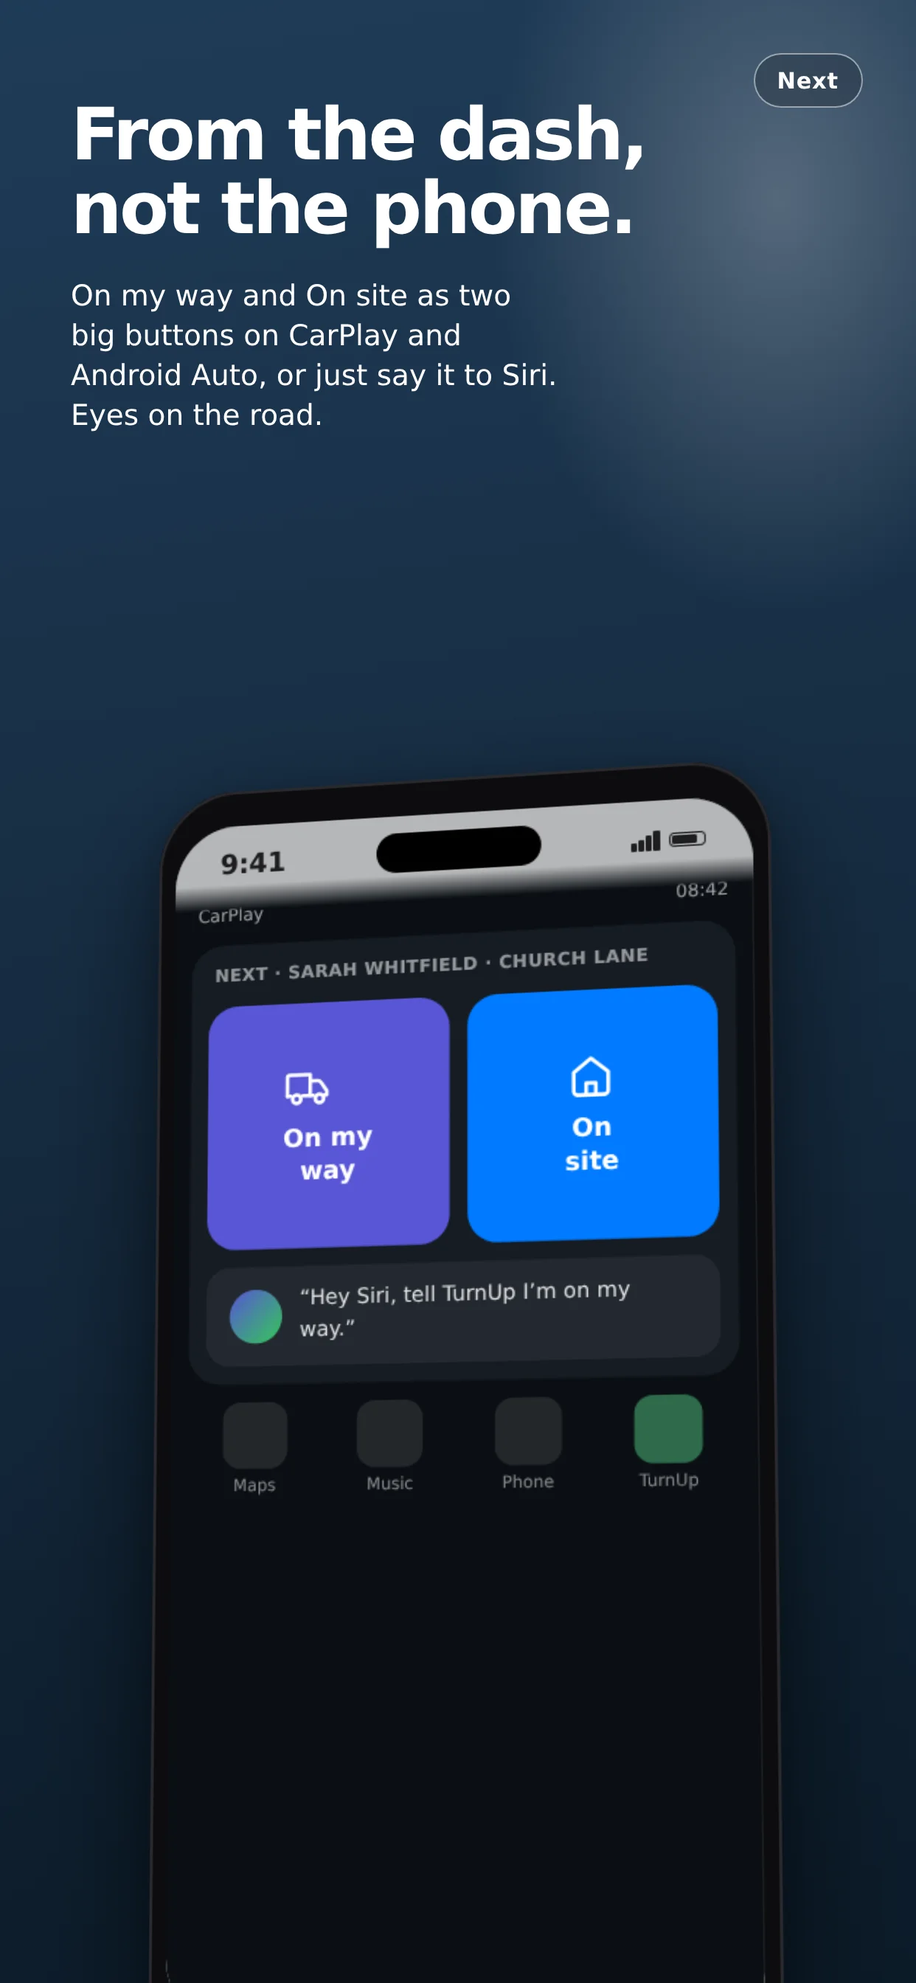
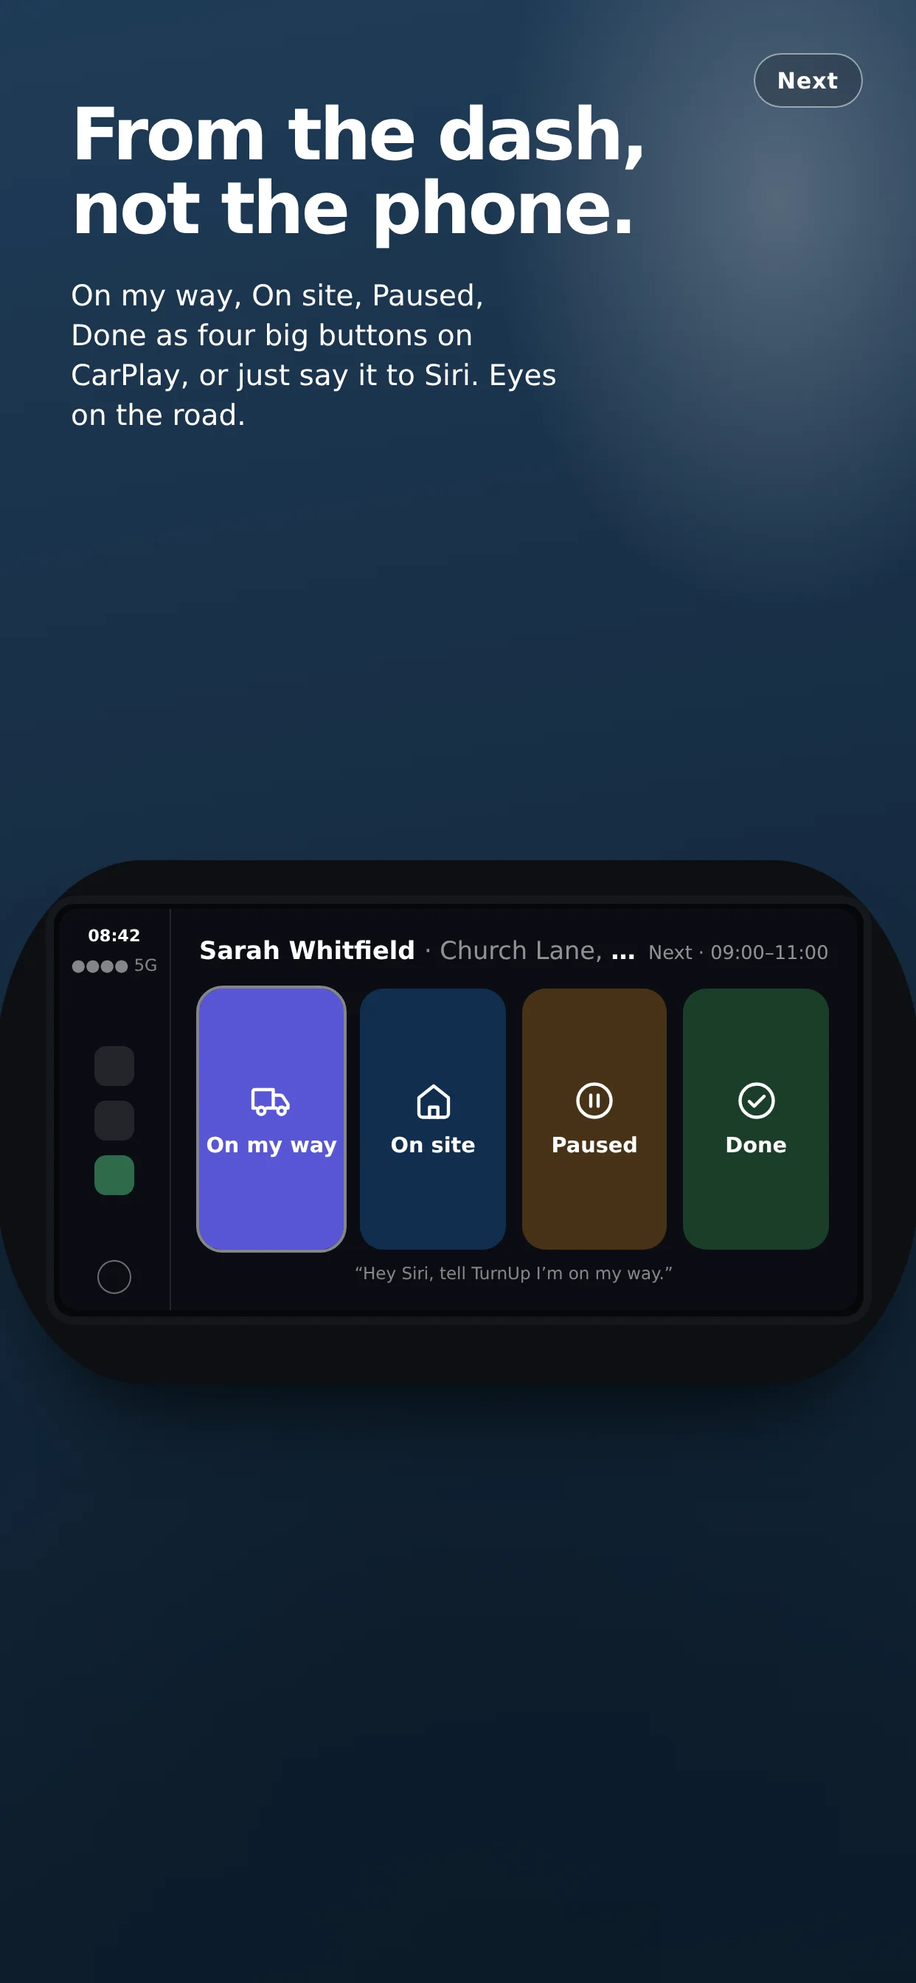
v1.15.1: move a sign-in between addresses without a password; CarPlay on a car's screen
Will: "The Face ID and QR code don't work when signed out." Right — a
passkey is bound to the host it was made on, and www.getturnup.com is a
new host. The fix is not the password he has not seen since July. The
address he IS signed in on now vouches for him: Signing in → Move my
sign-in mints a 90-second token for one named host, tied to this browser's
user agent; opening it on the new host sets a session and lands on the
dashboard with "press Set up this device". Tested: wrong browser, wrong
host, tampered token and expiry all bounce to the sign-in page with a
plain sentence; the new session works. The sign-in page now says Face ID
is per address and points at the move.

CarPlay and Android Auto are drawn as a head unit in a dash — landscape,
bezel, CarPlay's sidebar or Android Auto's bottom bar, four big buttons —
instead of a phone.

The rule Will has had to repeat is in CLAUDE.md ("Talking to Will") and in
the Standing Rules in Notion as Rule 18: every ask comes with a link and
the steps, and a decision is raised once.

Claude-Session: https://claude.ai/code/session_01KF9r2LXPvcJ1ugbhNoFDpJ

Changed region(s): [[0.0, 0.375, 1.0, 1.0], [0.0612, 0.125, 0.5507, 0.2188], [0.5201, 0.1875, 0.5813, 0.2188]]

diff --git a/src/components/CarDisplay.jsx b/src/components/CarDisplay.jsx
@@ -1,0 +1,64 @@
+import { VanIcon, HouseIcon, PauseIcon, CheckIcon } from '@/components/icons'
+
+/**
+ * A car's screen, not a phone's. Landscape head unit in a dark dash, drawn
+ * two ways: CarPlay (sidebar on the left: time, signal, home) and Android
+ * Auto (bar along the bottom). Both show the same four things a driver may
+ * press: On my way, On site, Paused, Done — and nothing that needs reading.
+ */
+const JOB = { who: 'Sarah Whitfield', where: 'Church Lane, Burbage', when: '09:00–11:00' }
+const BUTTONS = [
+  { label: 'On my way', bg: '#5856d6', Icon: VanIcon },
+  { label: 'On site', bg: '#007aff', Icon: HouseIcon },
+  { label: 'Paused', bg: '#ff9500', Icon: PauseIcon },
+  { label: 'Done', bg: '#34c759', Icon: CheckIcon },
+]
+
+export default function CarDisplay({ variant = 'carplay', width = 560, className = '' }) {
+  const h = Math.round(width * 0.52)
+  const android = variant === 'android'
+  return (
+    <div className={`relative shrink-0 ${className}`} style={{ width, height: h, fontSize: width / 560 * 16 }}>
+      {/* the dash it sits in */}
+      <div aria-hidden="true" className="absolute -inset-x-[6%] -bottom-[14%] -top-[8%] rounded-[16%/40%] bg-[#0d0f12]" style={{ boxShadow: '0 40px 60px -30px rgba(0,0,0,.8)' }} />
+      {/* bezel */}
+      <div className="absolute inset-0 rounded-[1.2em] bg-[#06070a] ring-1 ring-white/10" style={{ boxShadow: 'inset 0 0 0 0.35em #15181d' }} />
+      {/* screen */}
+      <div className={`absolute inset-[0.6em] overflow-hidden rounded-[0.8em] ${android ? 'bg-[#1b1e24]' : 'bg-[#0b0d12]'} text-white`}>
+        <div className={`flex h-full ${android ? 'flex-col' : ''}`}>
+          {!android && (
+            <aside className="flex w-[14%] flex-col items-center justify-between border-r border-white/10 py-[1em] text-[0.7em]">
+              <div className="text-center"><p className="font-semibold">08:42</p><p className="mt-[0.3em] text-white/50">●●●● 5G</p></div>
+              <div className="grid gap-[0.9em] text-white/60"><span className="mx-auto h-[2.4em] w-[2.4em] rounded-[0.7em] bg-white/10" /><span className="mx-auto h-[2.4em] w-[2.4em] rounded-[0.7em] bg-white/10" /><span className="mx-auto h-[2.4em] w-[2.4em] rounded-[0.7em] bg-[#2e6b4b]" /></div>
+              <span className="mx-auto h-[2em] w-[2em] rounded-full border border-white/40" />
+            </aside>
+          )}
+          <main className="flex min-w-0 flex-1 flex-col px-[1.2em] py-[1em]">
+            <div className="flex items-baseline justify-between">
+              <p className="truncate text-[1.05em] font-semibold">{JOB.who} <span className="font-normal text-white/55">· {JOB.where}</span></p>
+              <p className="shrink-0 text-[0.8em] text-white/55">Next · {JOB.when}</p>
+            </div>
+            <div className="mt-[0.8em] grid flex-1 grid-cols-4 gap-[0.7em]">
+              {BUTTONS.map(({ label, bg, Icon }, i) => (
+                <div key={label} className="flex flex-col items-center justify-center rounded-[1em] text-center"
+                     style={{ background: i === 0 ? bg : `color-mix(in srgb, ${bg} 22%, #14171d)`, outline: i === 0 ? '0.18em solid rgba(255,255,255,.5)' : 'none' }}>
+                  <Icon size={Math.round(width / 560 * 30)} />
+                  <p className="mt-[0.5em] text-[0.9em] font-bold leading-tight">{label}</p>
+                </div>
+              ))}
+            </div>
+            <p className="mt-[0.7em] text-center text-[0.72em] text-white/50">
+              {android ? '“Hey Google, tell TurnUp I’m on my way.”' : '“Hey Siri, tell TurnUp I’m on my way.”'}
+            </p>
+          </main>
+          {android && (
+            <nav className="flex items-center justify-between border-t border-white/10 px-[1.2em] py-[0.5em] text-[0.7em] text-white/60">
+              <span className="flex items-center gap-[0.8em]"><span className="h-[1.8em] w-[1.8em] rounded-full bg-white/15" /><span className="h-[1.8em] w-[1.8em] rounded-[0.5em] bg-white/15" /><span className="h-[1.8em] w-[1.8em] rounded-[0.5em] bg-[#2e6b4b]" /></span>
+              <span>08:42 · 5G ▲▲▲</span>
+            </nav>
+          )}
+        </div>
+      </div>
+    </div>
+  )
+}

diff --git a/src/app/preview/posters/Posters.jsx b/src/app/preview/posters/Posters.jsx
@@ -1,6 +1,7 @@
 'use client'
 import Device from '@/components/Device'
 import WalletHero from '@/components/WalletHero'
+import CarDisplay from '@/components/CarDisplay'
 import { FRAMES } from '@/lib/posters'
 import { TickIcon, PinIcon, HouseIcon, VanIcon as TruckIcon, EyeIcon as CameraIcon, StageIcon } from '@/components/icons'
 
@@ -40,8 +41,10 @@ export function Poster({ p, scale = 1 }) {
         <p className="whitespace-pre-line text-[3.05em] font-bold leading-[1.02] tracking-[-0.035em]">{p.head}</p>
         <p className="mt-[1.1em] max-w-[17em] text-[1.22em] leading-snug text-white/82">{p.sub}</p>
       </div>
-      <div className={`absolute inset-x-0 flex justify-center ${p.wallet ? 'inset-y-0 items-start pt-[17em]' : 'bottom-0'}`}>
-        {p.wallet ? (
+      <div className={`absolute inset-x-0 flex justify-center ${p.wallet ? 'inset-y-0 items-start pt-[17em]' : p.car ? 'inset-y-0 items-center pt-[10em]' : 'bottom-0'}`}>
+        {p.car ? (
+          <CarDisplay variant={p.car} width={560 * scale} />
+        ) : p.wallet ? (
           <div className="w-[36em] scale-[1.18]"><WalletHero tracker={DEMO} tradeName="Sam Hale Plumbing" className="!rounded-[2.4em] !bg-transparent" /></div>
         ) : (
           <div className="translate-y-[6%]">
@@ -178,25 +181,6 @@ function Mock({ kind }) {
       <Row icon={<CameraIcon size={19} />} title="4 photos from Sam" sub="New cylinder, the pipework, the cupboard tidy" on />
       <div className="rounded-[18px] bg-white px-4 py-4 shadow-sm"><p className="text-[15px] font-semibold">Happy with it?</p><p className="mt-1 text-[13px] text-[#5f6672]">A review takes a minute and means a lot to a one-person firm.</p><span className="mt-3 inline-block rounded-full bg-[#ff9500] px-4 py-2 text-[14px] font-semibold text-white">Leave a review</span></div>
     </Screen>
-  )
-  if (kind === 'carplay') return (
-    <div className="min-h-full bg-[#0b0f14] px-3 pt-[52px] text-white">
-      <div className="flex items-center justify-between px-1 text-[12px] text-white/60"><span>CarPlay</span><span>08:42</span></div>
-      <div className="mt-3 rounded-[22px] bg-[#161c24] p-3">
-        <p className="px-1 text-[12px] font-semibold uppercase tracking-wide text-white/55">Next · Sarah Whitfield · Church Lane</p>
-        <div className="mt-3 grid grid-cols-2 gap-3">
-          <div className="grid aspect-square place-items-center rounded-[20px] bg-[#5856d6] text-center"><div><TruckIcon size={34} /><p className="mt-2 text-[17px] font-bold leading-tight">On my<br/>way</p></div></div>
-          <div className="grid aspect-square place-items-center rounded-[20px] bg-[#007aff] text-center"><div><HouseIcon size={34} /><p className="mt-2 text-[17px] font-bold leading-tight">On<br/>site</p></div></div>
-        </div>
-        <div className="mt-3 flex items-center gap-3 rounded-[16px] bg-white/[.06] px-4 py-3">
-          <span className="grid h-9 w-9 place-items-center rounded-full bg-gradient-to-br from-[#5856d6] to-[#34c759]" />
-          <p className="text-[14px] text-white/85">“Hey Siri, tell TurnUp I’m on my way.”</p>
-        </div>
-      </div>
-      <div className="mt-3 grid grid-cols-4 gap-2 px-1 text-center text-[11px] text-white/50">
-        {['Maps', 'Music', 'Phone', 'TurnUp'].map((n, i) => <div key={n}><div className={`mx-auto mb-1 h-11 w-11 rounded-[12px] ${i === 3 ? 'bg-[#2e6b4b]' : 'bg-white/10'}`} />{n}</div>)}
-      </div>
-    </div>
   )
   if (kind === 'record') return (
     <Screen eyebrow="14 Church Lane" title="What has been done here">

diff --git a/src/app/api/auth/handoff/route.js b/src/app/api/auth/handoff/route.js
@@ -1,0 +1,60 @@
+import { NextResponse } from 'next/server'
+import { createHash } from 'node:crypto'
+import { jwtVerify, SignJWT } from 'jose'
+import { requireOperator, createSession } from '@/lib/operator-auth'
+
+/**
+ * Moving a sign-in from one address to another, without a password.
+ *
+ * A passkey is bound to the host it was made on, so the Face ID that opens
+ * tradestatus.vercel.app opens nothing on www.getturnup.com. The honest fix
+ * is not "type the password you have not seen since July": it is to let the
+ * address you ARE signed in on vouch for you on the one you are not.
+ *
+ * POST (operator only, on the old address): mint a token good for 90 seconds,
+ * for one named destination host, tied to this browser's user agent. Answer
+ * with the URL to open there.
+ *
+ * GET ?t= (on the new address): verify the token is for THIS host and THIS
+ * browser, set a session, send them to the dashboard to enrol Face ID here.
+ * Then the token is spent in the only sense that matters: ninety seconds.
+ */
+export const dynamic = 'force-dynamic'
+
+const key = () => (process.env.JWT_SECRET ? new TextEncoder().encode(process.env.JWT_SECRET) : null)
+const hostOf = (request) => request.headers.get('x-forwarded-host') || request.headers.get('host') || ''
+const uaHash = (request) => createHash('sha256').update(request.headers.get('user-agent') || '').digest('hex').slice(0, 24)
+const HOST_RE = /^[a-z0-9.-]+(:\d+)?$/i
+// Redirect on the host the browser actually used, not whatever request.url
+// resolved to behind a proxy.
+const back = (request, path) => {
+  const host = hostOf(request)
+  const proto = host.startsWith('localhost') || host.startsWith('127.') ? 'http' : 'https'
+  return NextResponse.redirect(`${proto}://${host}${path}`)
+}
+
+export async function POST(request) {
+  const operator = await requireOperator()
+  if (operator !== true) return NextResponse.json({ error: operator.error }, { status: operator.status })
+  const k = key(); if (!k) return NextResponse.json({ error: 'not_configured' }, { status: 503 })
+  const { to } = await request.json().catch(() => ({}))
+  const target = String(to || '').toLowerCase()
+  if (!HOST_RE.test(target) || target === hostOf(request).toLowerCase()) return NextResponse.json({ error: 'bad_target' }, { status: 400 })
+  const token = await new SignJWT({ purpose: 'handoff', uah: uaHash(request) })
+    .setProtectedHeader({ alg: 'HS256' }).setAudience(target).setIssuedAt().setExpirationTime('90s').sign(k)
+  const proto = target.startsWith('localhost') || target.startsWith('127.') ? 'http' : 'https'
+  return NextResponse.json({ url: `${proto}://${target}/api/auth/handoff?t=${encodeURIComponent(token)}` })
+}
+
+export async function GET(request) {
+  const k = key(); if (!k) return back(request, '/login?moved=failed')
+  const t = new URL(request.url).searchParams.get('t') || ''
+  try {
+    const { payload } = await jwtVerify(t, k, { audience: hostOf(request).toLowerCase() })
+    if (payload.purpose !== 'handoff' || payload.uah !== uaHash(request)) throw new Error('mismatch')
+    await createSession()
+    return back(request, '/dashboard?moved=1')
+  } catch {
+    return back(request, '/login?moved=failed')
+  }
+}

diff --git a/src/app/dashboard/Passkeys.jsx b/src/app/dashboard/Passkeys.jsx
@@ -2,6 +2,7 @@
 import { dayAndMonth } from '@/lib/when'
 
 import { useCallback, useEffect, useState } from 'react'
+import { CANONICAL_HOST } from '@/lib/trade'
 import { browserSupportsWebAuthn, startRegistration } from '@simplewebauthn/browser'
 
 // Named so a lost device can be found in the list and switched off.
@@ -77,6 +78,8 @@ export default function Passkeys() {
 
   return (
     <section className="mt-8 rounded-2xl border border-slate-200 bg-white p-4">
+      <MovedNote />
+      <MoveBanner />
       <h2 className="font-bold">Signing in</h2>
       <p className="mt-1 text-sm text-slate-600">
         Add a device and you sign in with Face ID or Touch ID instead of typing a password.
@@ -114,5 +117,44 @@ export default function Passkeys() {
         Keep your password somewhere safe. It is how you get back in if you lose every device.
       </p>
     </section>
+  )
+}
+
+
+/* Signed in on an old address: carry it to the real one, no password. */
+function MovedNote() {
+  const [moved, setMoved] = useState(false)
+  useEffect(() => { setMoved(Boolean(new URLSearchParams(window.location.search).get('moved'))) }, [])
+  if (!moved) return null
+  return (
+    <div className="r-inner mb-4 px-4 py-3.5 text-[14px]" style={{ background: 'color-mix(in srgb, var(--stage-done) 14%, transparent)' }}>
+      <p className="font-semibold">Moved. You are signed in here now.</p>
+      <p className="mt-1">Press <b>Set up this device</b> below and Face ID works on this address from now on.</p>
+    </div>
+  )
+}
+
+function MoveBanner() {
+  const [busy, setBusy] = useState(false)
+  const [err, setErr] = useState(null)
+  const [here, setHere] = useState(null)
+  useEffect(() => { setHere(window.location.host) }, [])
+  const move = async () => {
+    setBusy(true); setErr(null)
+    try {
+      const r = await fetch('/api/auth/handoff', { method: 'POST', headers: { 'Content-Type': 'application/json' }, body: JSON.stringify({ to: CANONICAL_HOST }) })
+      const j = await r.json().catch(() => ({}))
+      if (!r.ok || !j.url) throw new Error(j.error || 'failed')
+      window.location.href = j.url
+    } catch (e) { setErr('Could not start the move. Try again.'); setBusy(false) }
+  }
+  if (!here || here === CANONICAL_HOST || here.startsWith('localhost') || here.startsWith('127.')) return null
+  return (
+    <div className="r-inner mb-4 px-4 py-3.5 text-[14px]" style={{ background: 'color-mix(in srgb, var(--stage-paused) 13%, transparent)' }}>
+      <p className="font-semibold">This is the old address.</p>
+      <p className="mt-1">TurnUp lives at <b>{CANONICAL_HOST}</b> now. Face ID is set up per address, so take this sign-in there and set it up once.</p>
+      <button type="button" onClick={move} disabled={busy} className="btn accent-fill mt-2.5 !min-h-[42px] !px-4 !text-[14px]">{busy ? 'Moving…' : `Move my sign-in to ${CANONICAL_HOST}`}</button>
+      {err && <p className="mt-2 text-[13px]">{err}</p>}
+    </div>
   )
 }

diff --git a/src/app/login/page.js b/src/app/login/page.js
@@ -4,10 +4,13 @@ import Mark from '@/components/Mark'
 
 import { useEffect, useState } from 'react'
 import { useRouter } from 'next/navigation'
+import { CANONICAL_HOST } from '@/lib/trade'
 import { browserSupportsWebAuthn, startAuthentication } from '@simplewebauthn/browser'
 
 export default function LoginPage() {
   const router = useRouter()
+  const [moved, setMoved] = useState(null)
+  const [onCanonical, setOnCanonical] = useState(false)
   const [busy, setBusy] = useState(false)
   const [error, setError] = useState(null)
   const [supported, setSupported] = useState(false)
@@ -16,7 +19,11 @@ export default function LoginPage() {
   const [showPassword, setShowPassword] = useState(false)
   const [password, setPassword] = useState('')
 
-  useEffect(() => setSupported(browserSupportsWebAuthn()), [])
+  useEffect(() => {
+    setSupported(browserSupportsWebAuthn())
+    setMoved(new URLSearchParams(window.location.search).get('moved'))
+    setOnCanonical(window.location.host === CANONICAL_HOST)
+  }, [])
 
   const done = () => { router.push('/dashboard'); router.refresh() }
 
@@ -49,7 +56,7 @@ export default function LoginPage() {
       // leaves someone tapping a button that appears dead, so offer the way
       // forward that works in both cases rather than calling it an error.
       if (err?.name === 'NotAllowedError' || err?.name === 'AbortError') {
-        setError('Nothing to sign in with on this device yet — use your password, then set it up.')
+        setError('Nothing set up on this address yet. Face ID is per address: if you have it on the old one, move it from there (below). Or use your password, then set it up here.')
         setShowPassword(true)
       } else {
         setError(err.message || 'That did not work.')
@@ -119,6 +126,19 @@ export default function LoginPage() {
             {busy ? 'Signing in…' : 'Sign in with password'}
           </button>
         </form>
+      )}
+
+      {moved === 'failed' && (
+        <p className="r-inner mt-4 p-3.5 text-[15px]" style={{ background: 'color-mix(in srgb, var(--stage-paused) 13%, transparent)' }}>
+          That move link had expired — they last ninety seconds. Go back to the old address and press Move again.
+        </p>
+      )}
+
+      {onCanonical && (
+        <div className="glass r-outer mt-8 p-4 text-[14px]">
+          <p className="font-semibold">Still signed in on the old address?</p>
+          <p className="mt-1 muted">Open <a className="underline" href="https://tradestatus.vercel.app/dashboard">tradestatus.vercel.app/dashboard</a>, and under Signing in press <b>Move my sign-in</b>. You land back here, signed in, and set up Face ID once.</p>
+        </div>
       )}
 
       {supported && (

diff --git a/src/lib/posters.js b/src/lib/posters.js
@@ -102,8 +102,11 @@ export const FRAMES = [
     'Finished,\nphotographed,\nreviewed.', 'Photos of the work when it is done, and the review asked for at the right moment.',
     { mock: 'photos', alt: 'Job-done photos and a review request' }),
   f('n-carplay', 'next', 'next', NAVY,
-    'From the dash,\nnot the phone.', 'On my way and On site as two big buttons on CarPlay and Android Auto, or just say it to Siri. Eyes on the road.',
-    { mock: 'carplay', alt: 'A CarPlay screen with two big buttons: On my way and On site' }),
+    'From the dash,\nnot the phone.', 'On my way, On site, Paused, Done as four big buttons on CarPlay, or just say it to Siri. Eyes on the road.',
+    { car: 'carplay', alt: 'A CarPlay screen in a car dash with four big buttons: On my way, On site, Paused, Done' }),
+  f('n-androidauto', 'next', 'next', GREEN,
+    'Same on\nAndroid Auto.', 'The same four buttons on the car’s screen, and “Hey Google” does the rest. Whatever van, whatever phone.',
+    { car: 'android', alt: 'An Android Auto screen in a car dash with four big buttons' }),
   f('n-record', 'next', 'next', NAVY,
     'A record of\nyour home.', 'Everything done to the house, by whom, when, with the certificate and the photos. Kept with the address, not lost in an inbox.',
     { mock: 'record', alt: 'A house record: the work done, by whom, when, with certificates' }),

diff --git a/src/lib/version.js b/src/lib/version.js
@@ -16,7 +16,7 @@
  *
  * Adding one is welcome. Inventing one at runtime is not.
  */
-export const VERSION = '1.15.0'
+export const VERSION = '1.15.1'
 export const BUILD_DATE = '2026-10-09'
 
 export const THEMES = [
@@ -48,6 +48,12 @@ export const theme = () => THEMES[THEME_INDEX % THEMES.length]
  * by the person who asked for it, not by a release manager.
  */
 export const CHANGELOG = [
+  { version: '1.15.1', date: '2026-10-09', notes: [
+    'Move my sign-in: the address you are signed in on vouches for you on the new one \u2014 no password, 90 seconds, this browser only',
+    'The sign-in page says plainly that Face ID is per address, and points at the move',
+    'CarPlay and Android Auto drawn on a car\u2019s screen in a dash, not a phone',
+    'ServiceM8: waits and retries while the account is being switched on',
+  ] },
   { version: '1.15.0', date: '2026-10-09', notes: [
     'ServiceM8 connector: add a job by its ServiceM8 number and the card follows the job \u2014 check in is On site, complete is Job done, check out early is Paused',
     'Robust by design: a webhook is only a doorbell; every event is checked against the job itself, every sync is idempotent, and a customer opening their page pulls the truth too',

diff --git a/src/lib/roadmap.js b/src/lib/roadmap.js
@@ -123,7 +123,7 @@ export const PHASES = [
       { key: 'job-management', name: 'From tracker to the job itself', state: 'idea',
         what: 'The quote they accepted, the day it was done, the bill, the next service due. The link grows into the job, so a one-van firm runs the whole thing from the same place the customer already looks.' },
       { key: 'carplay', name: 'From the dash, not the phone', state: 'idea',
-        what: 'On my way and On site as two big buttons on CarPlay and Android Auto, or said to Siri. Eyes on the road, hands on the wheel, the card still moves.' },
+        what: 'The four stage buttons on the car’s own screen — CarPlay and Android Auto — or said to Siri or Google. Eyes on the road, hands on the wheel, the card still moves.' },
       { key: 'quoting', name: 'Quotes and invoices', state: 'idea',
         what: 'Only worth doing once the card is in a hundred wallets.' },
     ],

diff --git a/src/lib/trade.js b/src/lib/trade.js
@@ -17,3 +17,7 @@ export const TRADE_PHONE_TEL =
  * src/lib/when.js, which is the only place dates are formatted.
  */
 export const TRADE_TIMEZONE = process.env.NEXT_PUBLIC_TRADE_TIMEZONE || 'Europe/London'
+
+// The address the product lives at. Used to offer a move when someone is
+// signed in on an old one (passkeys are per host).
+export const CANONICAL_HOST = process.env.NEXT_PUBLIC_CANONICAL_HOST || 'www.getturnup.com'

diff --git a/CLAUDE.md b/CLAUDE.md
@@ -1,5 +1,18 @@
 # CLAUDE.md — TurnUp
 
+## Talking to Will
+
+Will reads these on a phone, between jobs. Two rules he has had to repeat, so they
+are written down:
+
+1. **Every ask of Will comes with a tappable link and the steps.** Never a bare
+   command or "do X in Vercel". Say where to go (a link), what to press, in order,
+   and what he will see when it worked. A terminal command gets: open Terminal,
+   `cd` to the folder (name it), paste this, what the last line should say.
+2. **Say it once.** If he has decided (a key he will not rotate, a password he will
+   not change), do not raise it again.
+
+
 ## This is not Rosebourne Plumbing
 
 **Read this first, because the mistake has been made twice.**
